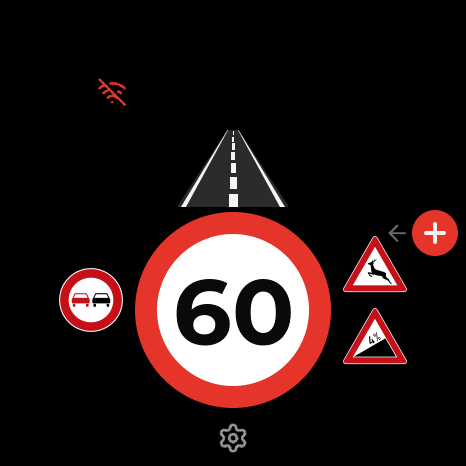
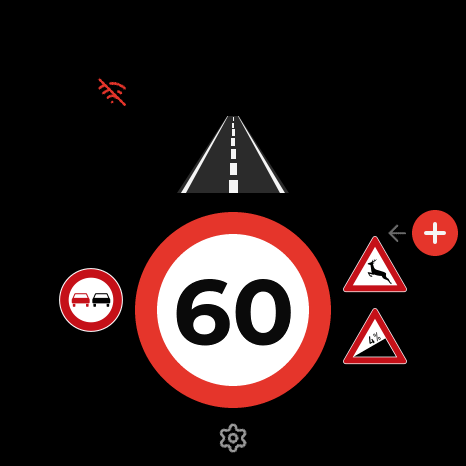
fix(ui): lift the Home road picture ~14 px
Centre 168 -> 154 so it sits clear above the speed sign instead of nearly
touching its ring. Position is now one constant (kRoadY) in home_screen.cpp.

Changed region(s): [[0.3906, 0.2403, 0.6309, 0.4506]]

diff --git a/ui/screens/home_screen.cpp b/ui/screens/home_screen.cpp
@@ -13,6 +13,7 @@ namespace ui {
 
 namespace {
 constexpr int kRoadW = 112;    // "free road" picture, width at its bottom edge
+constexpr int kRoadY = 154;    // its centre line when a speed sign is shown (was 168)
 constexpr int kSideSign = 64;   // left/right context signs, same size both sides
 }
 
@@ -53,7 +54,7 @@ HomeScreen::HomeScreen(lv_obj_t* parent) {
     lv_obj_center(gimg);
 
     place_center(badge_->root(), 112, 92);
-    place_center(road_->root(), 233, 168);
+    place_center(road_->root(), 233, kRoadY);
     place_center(sign_->root(), 233, 310);
     plus_->set_center(435, 233);
     place_center(gear_, 233, 438);
@@ -102,7 +103,7 @@ void HomeScreen::set_state(const core::DisplayState& s) {
     right_->set(s.rightSigns);
 
     place_center(sign_->root(), 233, 310);
-    place_center(road_->root(), 233, shown ? 168 : 240);
+    place_center(road_->root(), 233, shown ? kRoadY : 240);
     // Columns flank the sign, vertically centred on it and pulled well inside the
     // round bezel.
     place_center(left_->root(), 91, 300);

diff --git a/docs/ui-spec.md b/docs/ui-spec.md
@@ -26,7 +26,7 @@ mark is drawn.
 | Element | Centre | Size | Notes |
 |---|---|---|---|
 | Status badge | (112, 92) | globe 30 | globe on top, abbreviated `networkPeers` ("480K", 14 px muted) **stacked underneath** it. |
-| Free-road picture | (233, 168) | 112 × 78 | a straight road in perspective — dark-grey surface, white edge lines, dashed white centre line (`ui/widgets/road_view`, drawn from triangles + rects, not a bitmap). Shown only when `directionArrows` (the wire flag keeps its name) is set and no hazard is active. Replaced the green chevrons. |
+| Free-road picture | (233, 154) | 112 × 78 | a straight road in perspective — dark-grey surface, white edge lines, dashed white centre line (`ui/widgets/road_view`, drawn from triangles + rects, not a bitmap). Shown only when `directionArrows` (the wire flag keeps its name) is set and no hazard is active. Replaced the green chevrons. |
 | Speed-limit sign | (233, 310) | Ø 196 | white disc, ~22 px red ring, ~92 px bold digits. Drawn (border + label), not a bitmap. Fades out when `speedLimit` absent. |
 | Left sign column | centred on the speed sign at x ≈ 100 | signs ~48 px | `DisplayState.leftSigns` (VzNr codes), by convention prohibitions (276 = Überholverbot …). Newest 3; if the app sends 4 the oldest falls off the top. The box shrinks to the count so a single sign sits level with the speed sign, not slid into the round bezel. |
 | Right sign column | centred on the speed sign at x ≈ 366 | signs ~48 px, **same size as left** | `DisplayState.rightSigns`, by convention danger signs (142-10 Wildwechsel, 110-4 Steigung …). Newest 3, same overflow rule as the left column. |
